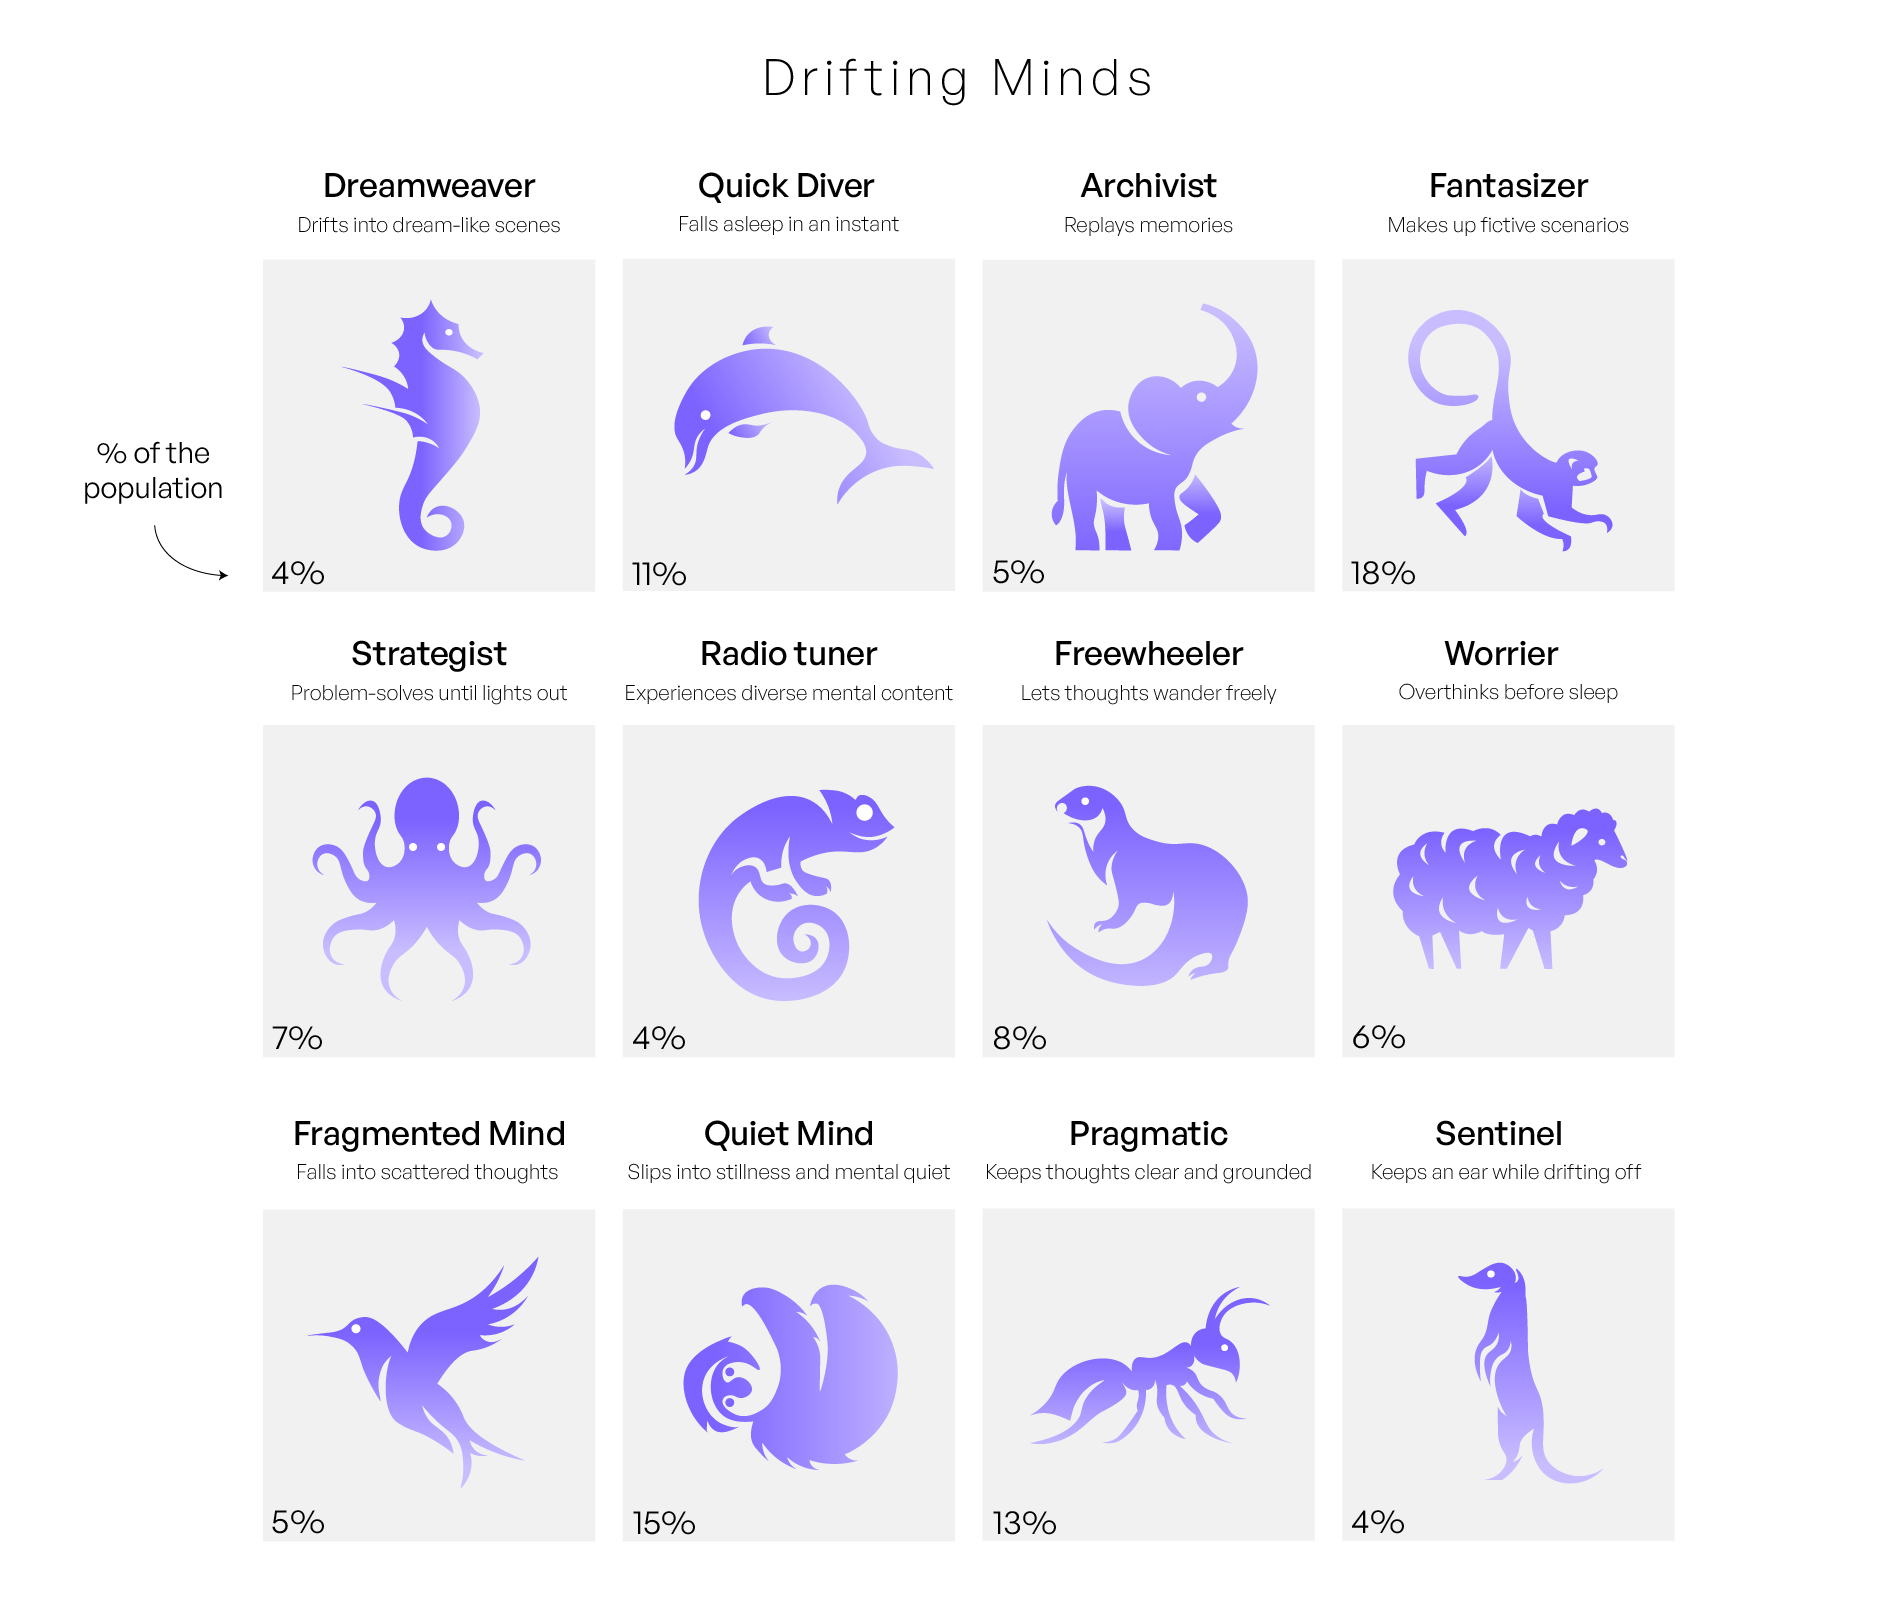
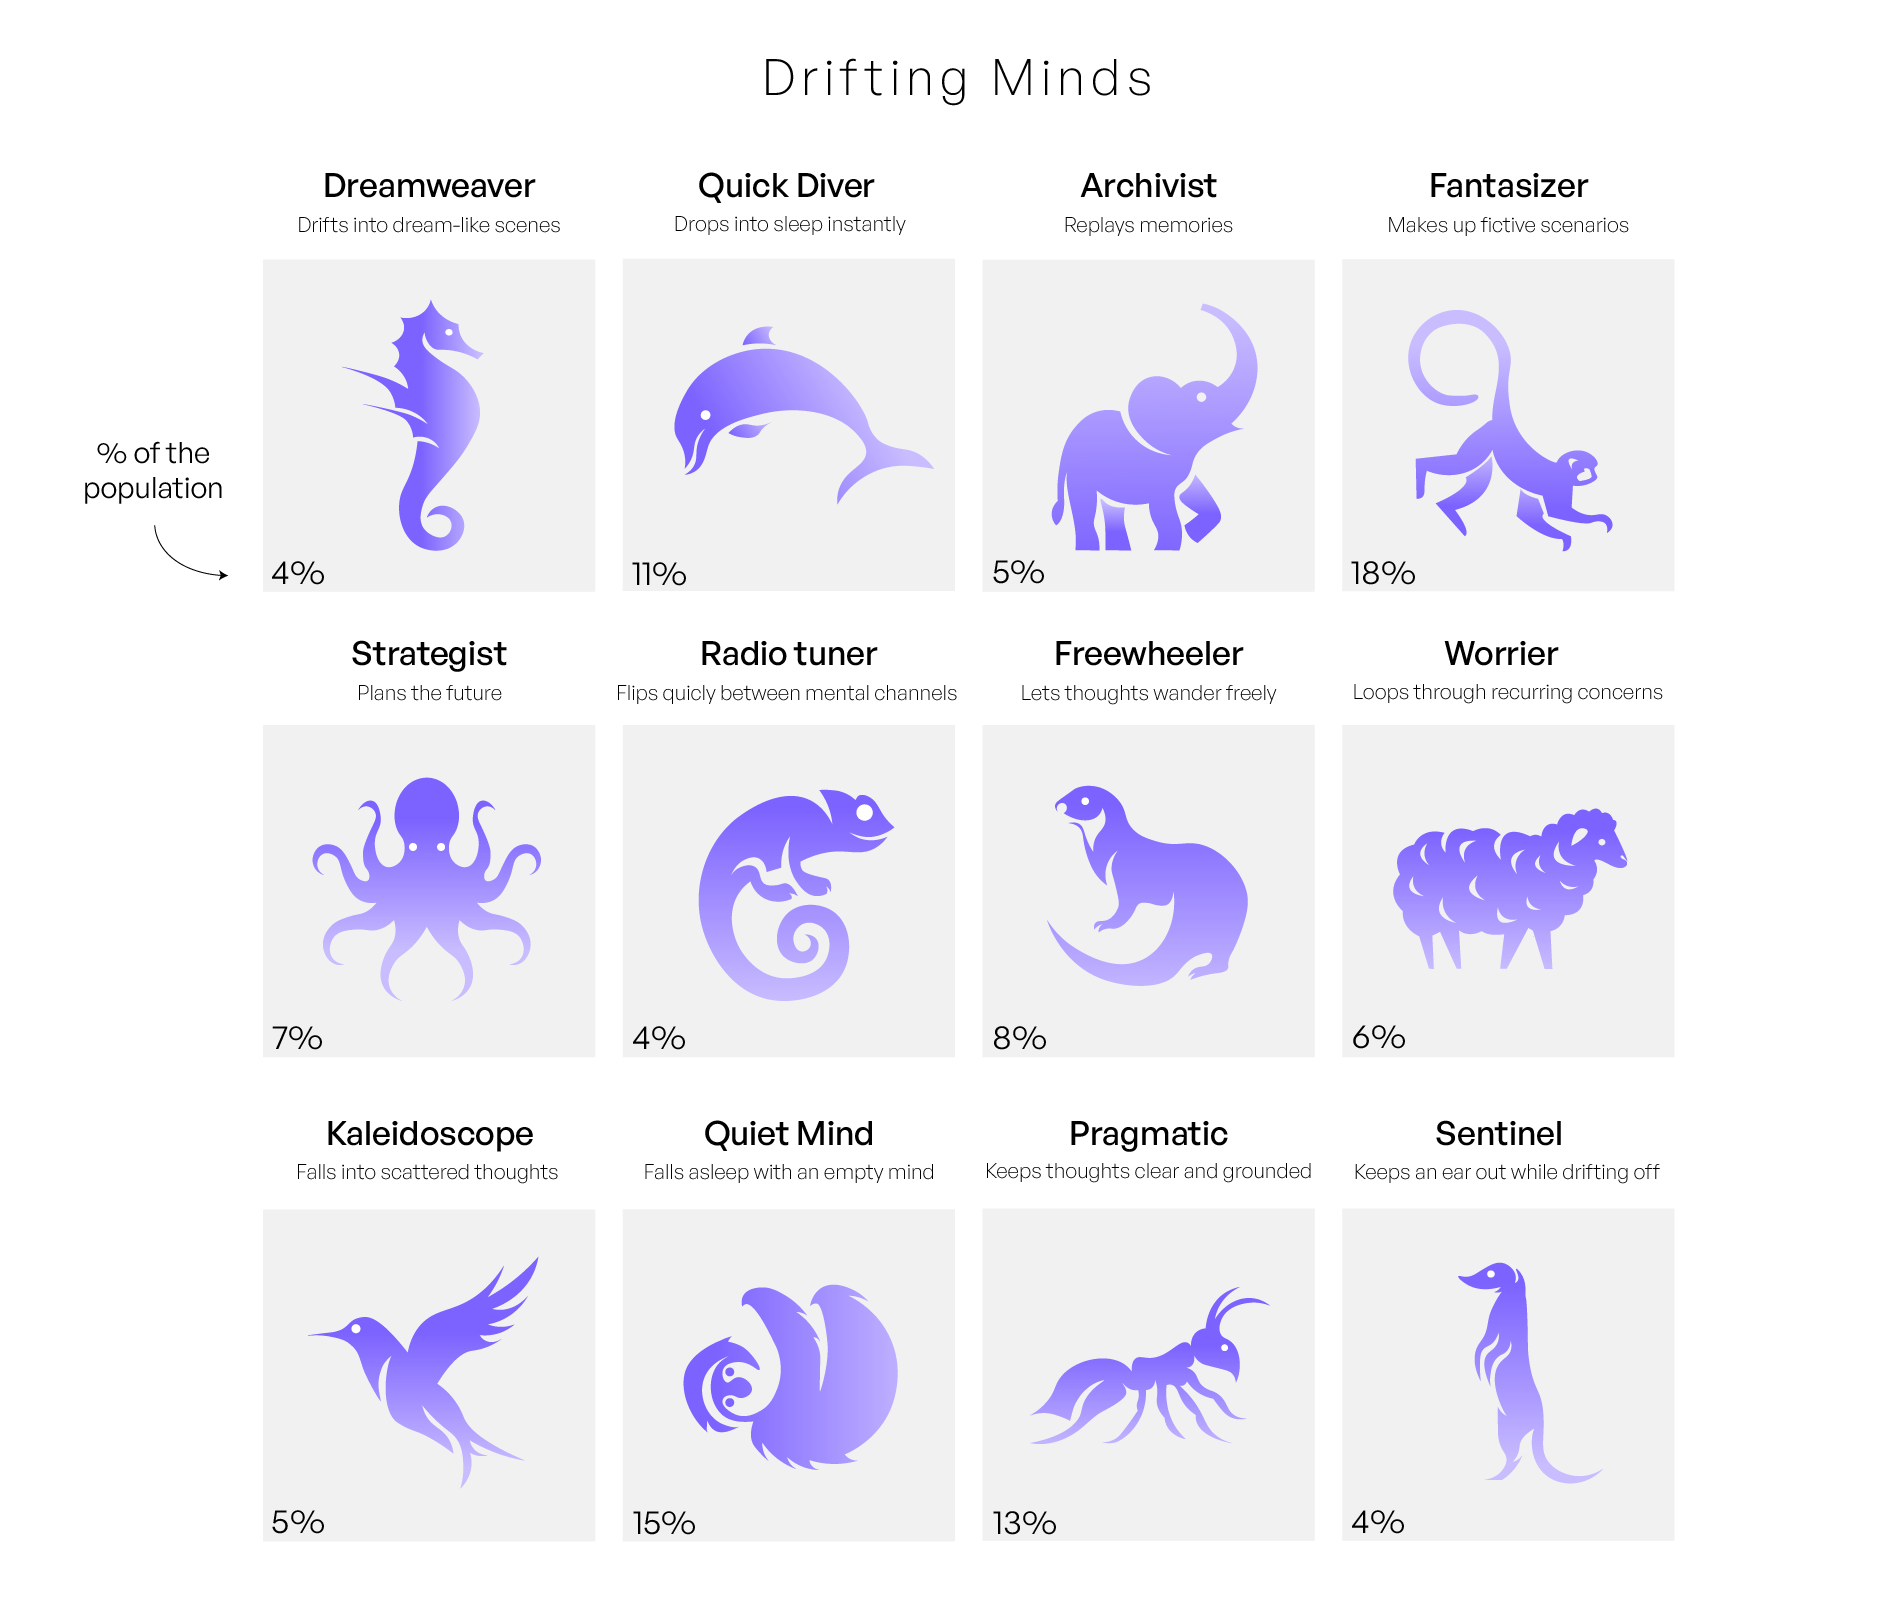
all translations finalised

diff --git a/DM_results_viz.py b/DM_results_viz.py
@@ -1307,8 +1307,8 @@ TEXT = {
     },
     "Quick Diver": {
         "en": "Quick Diver",
-        "fr": "Plongeur éclair",
-        "es": "Buceador(a) fulminante",
+        "fr": "Plongeur",
+        "es": "Buceador(a)",
     },
     "Fantasizer": {
         "en": "Fantasizer",
@@ -1322,23 +1322,23 @@ TEXT = {
     },
     "Worrier": {
         "en": "Worrier",
-        "fr": "Esprit en remous",
-        "es": "Mente en agitación",
+        "fr": "Moulin à pensées",
+        "es": "Molino de pensamientos",
     },
     "Freewheeler": {
         "en": "Freewheeler",
-        "fr": "Lâche-prise",
-        "es": "Soltador(a)",
+        "fr": "Vagabond",
+        "es": "Vagabundo/a",
     },
     "Quiet Mind": {
         "en": "Quiet Mind",
-        "fr": "Esprit silencieux",
-        "es": "Mente silenciosa",
+        "fr": "Silencieux",
+        "es": "Silencioso/a",
     },
     "Radio Tuner": {
         "en": "Radio Tuner",
-        "fr": "Zappeur mental",
-        "es": "Sintonizador(a) mental",
+        "fr": "Zappeur",
+        "es": "Sintonizador(a)",
     },
     "Strategist": {
         "en": "Strategist",
@@ -1351,9 +1351,9 @@ TEXT = {
         "es": "Centinela",
     },
     "Fragmented Mind": {
-        "en": "Fragmented Mind",
-        "fr": "Esprit morcelé",
-        "es": "Mente fragmentada",
+        "en": "Kaleidoscope",
+        "fr": "Kaléidoscope",
+        "es": "Caleidoscopio",
     },
     "Pragmatic": {
         "en": "Pragmatic",
@@ -1370,59 +1370,59 @@ TEXT = {
         "es": "Tu mente se desliza hacia el sueño tejiendo pequeñas escenas oníricas: imágenes coloridas e historias, a veces extrañas.",
     },
     "PROFILE_DESC_QUICK_DIVER": {
-        "en": "You fall asleep fast; an immediate dive into sleep that leaves little room for thinking.",
-        "fr": "Vous vous endormez d’un seul coup; une plongée soudaine qui ne laisse à peine du temps pour penser.",
-        "es": "Te duermes de golpe; una caída repentina que apenas deja tiempo para pensar.",
+        "en": "You fall asleep fast and head-first; an immediate dive into sleep that leaves little room for thinking.",
+        "fr": "Vous vous endormez d’un seul coup; une plongée soudaine sans presque aucune pensée sur le chemin.",
+        "es": "Te duermes de golpe; una caída repentina sin casi ningún pensamiento en el camino.",
     },
     "PROFILE_DESC_FANTASIZER": {
-        "en": "You build inner stories as you drift off; vivid, intentional scenarios that unfold until sleep takes over.",
-        "fr": "Vous vous laissez porter par des histoires : des scènes volontairement imaginées qui vous portent jusqu’au sommeil.",
-        "es": "Te dejas llevar por historias: escenas imaginadas a propósito que te acompañan hasta el sueño.",
+        "en": "You create vivid, intentional inner stories as you drift off; imaginative scenes that unfold until sleep takes over.",
+        "fr": "Vous imaginez des histoires ou des scénarios : des scènes volontairement construites qui vous portent jusqu’au sommeil.",
+        "es": "Imaginas historias o escenarios: escenas construidas a propósito que te acompañan hasta el sueño.",
     },
     "PROFILE_DESC_ARCHIVIST": {
-        "en": "You fall asleep by revisiting the past; replaying moments, conversations, or scenes, sorting through memories before sleep.",
+        "en": "You fall asleep by revisiting the past; replaying moments, conversations, or scenes, as if sorting through memories before sleep.",
         "fr": "Vous vous endormez en revisitant la journée : moments, conversations ou scènes reviennent avant de vous laisser aller.",
         "es": "Te duermes reviviendo el día: momentos, conversaciones o escenas vuelven antes de que te dejes llevar.",
     },
     "PROFILE_DESC_WORRIER": {
-        "en": "Your mind loops before sleep, turning over the same concerns or unfinished thoughts in repeated passes before settling.",
-        "fr": "Votre esprit tourne en boucle; des préoccupations ou pensées persistantes jusqu’à ce que le sommeil s’installe.",
-        "es": "Tu mente gira en bucle; preocupaciones o pensamientos persistentes hasta que el sueño finalmente llega.",
+        "en": "Your mind cycles through the same concerns or unfinished thoughts, looping them again and again before settling.",
+        "fr": "Votre esprit tourne en boucle sur les mêmes préoccupations ou pensées persistantes jusqu’à ce que le sommeil s’installe.",
+        "es": "Tu mente da vueltas sobre las mismas preocupaciones o pensamientos persistentes hasta que el sueño llega.",
     },
     "PROFILE_DESC_FREEWHEELER": {
         "en": "You start falling asleep with intentional thoughts, then loosen into spontaneous, free-flowing ideas that carry you toward sleep.",
-        "fr": "Les pensées dirigées cèdent progressivement : les idées deviennent spontanées et changeantes, jusqu'au sommeil.",
-        "es": "Los pensamientos dirigidos se desvanecen poco a poco: las ideas se vuelven espontáneas y cambiantes hasta que llega el sueño.",
+        "fr": "Vous démarrez avec des pensées intentionelles puis vos pensées deviennent spontanées, vagabondant librement pour suivre leur propre cours jusqu'au sommeil.",
+        "es": "Empiezas con pensamientos intencionales, y luego tus ideas se vuelven espontáneas, vagando libremente hasta llevarte al sueño.",
     },
     "PROFILE_DESC_QUIET_MIND": {
-        "en": "You drift into sleep with little crossing your mind, just a gentle fade-out of consciousness.",
-        "fr": "L’activité mentale se fait silencieuse : vous glissez vers le sommeil avec l’esprit presque vide.",
-        "es": "La actividad mental se vuelve silenciosa: te deslizas hacia el sueño con la mente casi vacía.",
+        "en": "You drift into sleep with almost no mental noise, your mind simply fades out, calm and empty.",
+        "fr": "Vous vous endormez dans un silence intérieur presque total : l’esprit s'éteint doucement, sans agitation.",
+        "es": "Te duermes en un silencio interior casi total: la mente se apaga suavemente, sin agitación.",
     },
     "PROFILE_DESC_RADIO_TUNER": {
-        "en": "Your mind shifts rapidly between thoughts and perceptions as you fall asleep, like tuning through mental stations and never staying in one one for long.",
-        "fr": "Votre esprit change rapidement de forme—pensées et perceptions—sans jamais s’attarder sur un même contenu.",
+        "en": "Your mind shifts rapidly between thoughts and perceptions as you fall asleep, like flicking through mental stations and never staying in one one for long.",
+        "fr": "Votre esprit saute rapidement d'une idée ou perception à l'autre, comme si vous zappiez entre différentes chaînes mentales.",
         "es": "Tu mente cambia rápidamente de forma —pensamientos y percepciones— sin detenerse nunca en un mismo contenido.",
     },
     "PROFILE_DESC_STRATEGIST": {
-        "en": "You organize your thoughts as you fall asleep, thinking ahead to what comes next.",
+        "en": "You organize plans or tasks for the future as you fall asleep, thinking ahead to what comes next.",
         "fr": "Vous mettez de l’ordre dans vos idées en vous endormant, en préparant mentalement le futur et les tâches à venir.",
         "es": "Pones orden en tus ideas al dormirte, preparando mentalmente el futuro y las tareas por venir.",
     },
     "PROFILE_DESC_SENTINEL": {
-        "en": "Your mind quiets down, but part of you stays lightly aware of the environment as you fall asleep.",
-        "fr": "Votre esprit se calme, mais une légère vigilance demeure : vous percevez votre environnement tout en basculant vers le sommeil.",
-        "es": "Tu mente se calma, pero queda una ligera vigilancia: percibes tu entorno mientras te dejas caer en el sueño.",
+        "en": "Your mind quiets down, but part of you stays lightly aware of your surroundings as you fall asleep.",
+        "fr": "Votre esprit s'apaise, mais une partie de vous reste légèrement attentive à votre environnement tout en basculant vers le sommeil.",
+        "es": "Tu mente se calma, pero una parte de ti permanece ligeramente atenta al entorno mientras te vas quedando dormido/a.",
     },
     "PROFILE_DESC_FRAGMENTED_MIND": {
-        "en": "Your mind breaks into fleeting fragments as you fall asleep: disconnected thoughts and fragments of images or sounds.",
-        "fr": "Votre esprit se fragmente à l’endormissement : pensées déconnectées, bribes d’images ou de sons qui apparaissent et disparaissent.",
-        "es": "Tu mente se fragmenta al quedarte dormido/a: pensamientos desconectados, fragmentos de imágenes o sonidos que aparecen y desaparecen.",
+        "en": "Your mind breaks into fleeting fragments as you fall asleep: quick flashes of thoughts, images or sounds that don't quite connect.",
+        "fr": "Votre esprit se fragmente à l’endormissement : pensées déconnectées, bribes d’images ou de sons qui apparaissent et disparaissent rapidement.",
+        "es": "Tu mente se fragmenta al quedarte dormido/a: pensamientos desconectados, destellos de imágenes o sonidos que aparecen y desaparecen rápidamente.",
     },
     "PROFILE_DESC_PRAGMATIC": {
         "en": "Your thoughts stay clear and practical; grounded in everyday logic rather than drifting into the strange.",
-        "fr": "Vos pensées restent claires et concrètes, ancrées dans le quotidien plutôt que dans l’imaginaire ou l’étrange.",
-        "es": "Tus pensamientos siguen claros y concretos, anclados en lo cotidiano más que en lo imaginario o lo extraño.",
+        "fr": "Vos pensées gardent une logique claire et terre-à-terre, elles sont ancrées dans le quotidien plutôt que dans l’imaginaire ou l’étrange.",
+        "es": "Tus pensamientos mantienen una lógica clara y realista; están anclados en lo cotidiano más que en lo imaginario o lo extraño.",
     },
     
     # -----------------------
